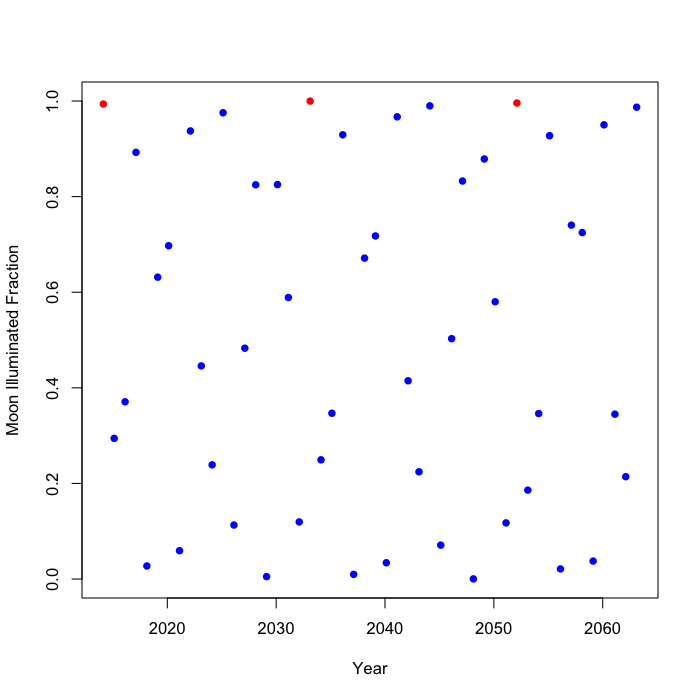
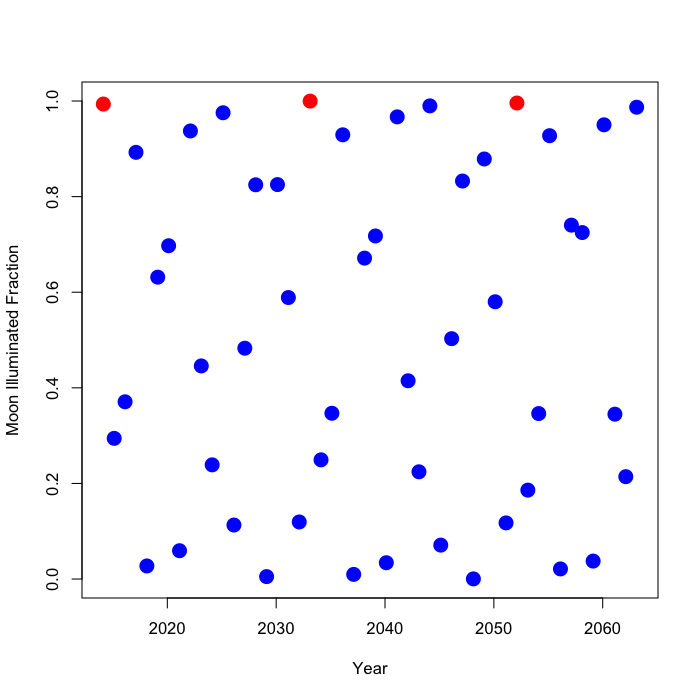
moon

diff --git a/_site/r/2014/02/13/valentine-moon.html b/_site/r/2014/02/13/valentine-moon.html
@@ -101,7 +101,7 @@
 
 <p>The Oce package has a function called <code>moonAngle()</code> that returns, among other things, the illuminated fraction of the moon visible at any given time. This can be used to test for a full moon on Valentine’s day.</p>
 
-<p>The first step is to construct the times of Valentine’s days, starting with the one this year.</p>
+<p>The first step is to construct the times of Valentine’s days, starting with the one this year. Then the illuminated fraction can be calculated (here, for Halifax, the lover’s capital of Canada), and that fraction can be plotted for each of the next fifty years, with red dots for the romantic times, and blue ones for the so-sad ones.</p>
 <table class='highlighttable'><tr><td class='linenos'><div class='linenodiv'><pre><code class='r'>1
 2</code></pre></div></td><td class='code'><div class='highlight'><pre>times <span class='o'>&lt;-</span> seq<span class='p'>(</span>as.POSIXct<span class='p'>(</span><span class='s'>&quot;2014-02-14&quot;</span><span class='p'>),</span> length.out <span class='o'>=</span> <span class='m'>50</span><span class='p'>,</span> by <span class='o'>=</span> <span class='s'>&quot;year&quot;</span><span class='p'>)</span>
 library<span class='p'>(</span>oce<span class='p'>)</span>
@@ -115,7 +115,7 @@ library<span class='p'>(</span>oce<span class='p'>)</span>
 4</code></pre></div></td><td class='code'><div class='highlight'><pre>fraction <span class='o'>&lt;-</span> moonAngle<span class='p'>(</span>times<span class='p'>,</span> lon <span class='o'>=</span> <span class='m'>-63</span><span class='p'>,</span> lat <span class='o'>=</span> <span class='m'>43</span><span class='p'>)</span><span class='o'>$</span>illuminatedFraction
 full <span class='o'>&lt;-</span> fraction <span class='o'>&gt;</span> <span class='m'>0.99</span>
 plot<span class='p'>(</span>times<span class='p'>,</span> fraction<span class='p'>,</span> xlab <span class='o'>=</span> <span class='s'>&quot;Year&quot;</span><span class='p'>,</span> ylab <span class='o'>=</span> <span class='s'>&quot;Moon Illuminated Fraction&quot;</span><span class='p'>,</span> col <span class='o'>=</span> ifelse<span class='p'>(</span>full<span class='p'>,</span> 
-    <span class='s'>&quot;red&quot;</span><span class='p'>,</span> <span class='s'>&quot;blue&quot;</span><span class='p'>),</span> pch <span class='o'>=</span> <span class='m'>16</span><span class='p'>)</span>
+    <span class='s'>&quot;red&quot;</span><span class='p'>,</span> <span class='s'>&quot;blue&quot;</span><span class='p'>),</span> pch <span class='o'>=</span> <span class='m'>16</span><span class='p'>,</span> cex <span class='o'>=</span> <span class='m'>2</span><span class='p'>)</span>
 </pre></div>
 </td></tr></table>
 <p><img src="/assets/2014-02-13-valentines.png" alt="center" /></p>

diff --git a/_posts/2014-02-13-valentine-moon.md b/_posts/2014-02-13-valentine-moon.md
@@ -18,7 +18,7 @@ A wise person told me that it will be a full moon on the upcoming Valentine's Da
 
 The Oce package has a function called ``moonAngle()`` that returns, among other things, the illuminated fraction of the moon visible at any given time.  This can be used to test for a full moon on Valentine's day.
 
-The first step is to construct the times of Valentine's days, starting with the one this year.
+The first step is to construct the times of Valentine's days, starting with the one this year.  Then the illuminated fraction can be calculated (here, for Halifax, the lover's capital of Canada), and that fraction can be plotted for each of the next fifty years, with red dots for the romantic times, and blue ones for the so-sad ones.
 
 
 {% highlight r linenos=table %}
@@ -40,7 +40,7 @@ library(oce)
 fraction <- moonAngle(times, lon = -63, lat = 43)$illuminatedFraction
 full <- fraction > 0.99
 plot(times, fraction, xlab = "Year", ylab = "Moon Illuminated Fraction", col = ifelse(full, 
-    "red", "blue"), pch = 16)
+    "red", "blue"), pch = 16, cex = 2)
 {% endhighlight %}
 
 ![center]({{ site.url }}/assets/2014-02-13-valentines.png) 
